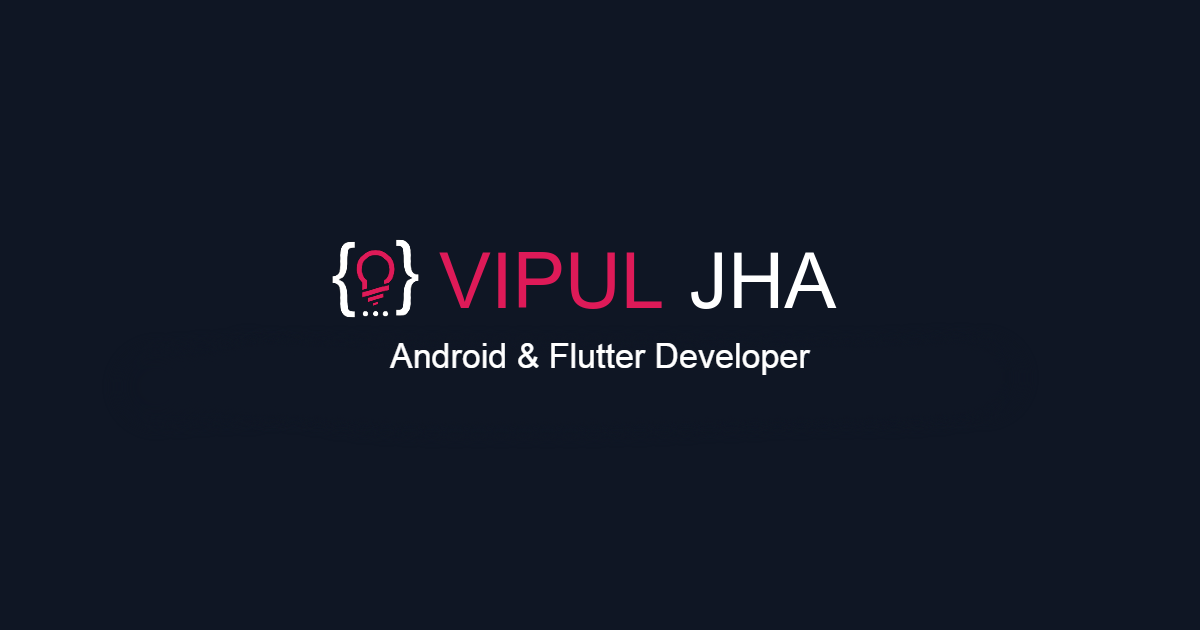
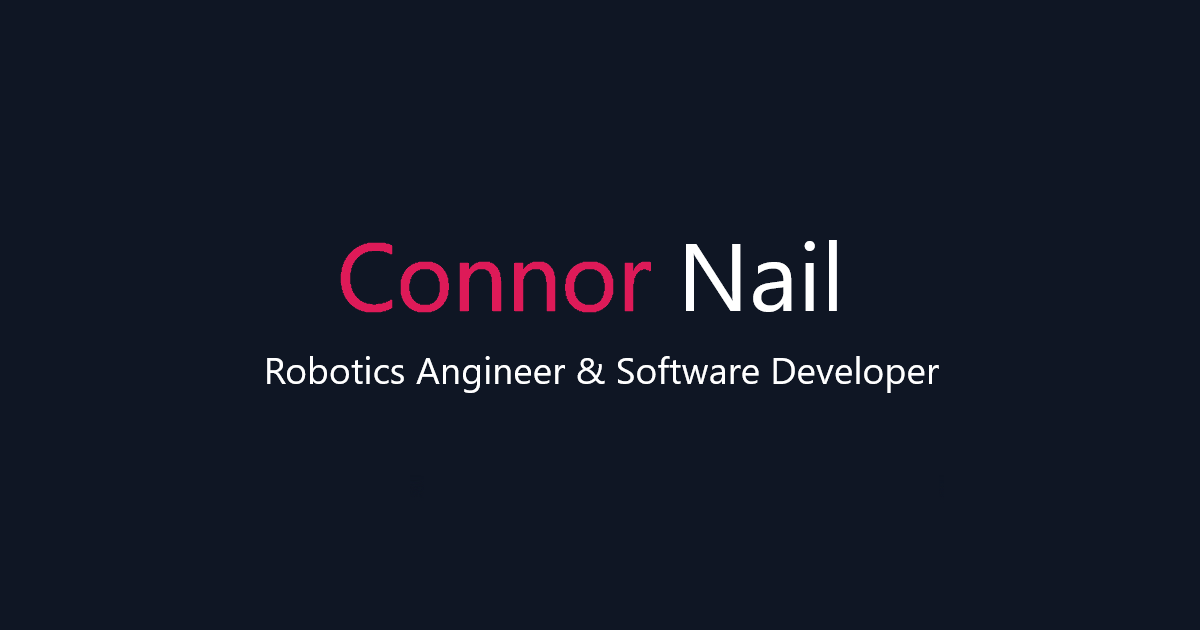
Adjusted head

Changed region(s): [[0.2775, 0.3619, 0.7092, 0.5127], [0.2158, 0.5429, 0.8017, 0.6333]]

diff --git a/src/pages/_document.js b/src/pages/_document.js
@@ -32,16 +32,16 @@ export default class MyDocument extends Document {
       <Html lang='en-GB'>
         <Head>
           <link href="https://fonts.googleapis.com/css2?family=Open+Sans:wght@300;400;500;600;700&display=swap" rel="stylesheet" />
-          <meta name="title" content="Vipul Jha - Android & Flutter Dev" />
-          <meta name="description" content="Hey there, This is Vipul Jha aka lordarcadius. I am an Android & Flutter developer who also works on ROMs, Kernels, & Scripts." />
+          <meta name="title" content="Connor Nail - Robotics Engineer & Software Developer" />
+          <meta name="description" content="My name is Connor Nail, I am a Robotics & Autonomous Systems graduate student enrolled at Arizona State University. I have a background in the CMP process of semiconductor manufacturing with experience in reliability testing, physics simulations, and web development." />
           <meta property="og:type" content="website" />
-          <meta property="og:title" content="Vipul Jha - Android & Flutter Dev" />
-          <meta property="og:description" content="Hey there, This is Vipul Jha aka lordarcadius. I am an Android & Flutter developer who also works on ROMs, Kernels, & Scripts." />
-          <meta property="og:image" content="https://www.vipuljha.com/images/banner.png" />
+          <meta property="og:title" content="Connor Nail - Robotics Engineer & Software Developer" />
+          <meta property="og:description" content="My name is Connor Nail, I am a Robotics & Autonomous Systems graduate student enrolled at Arizona State University. I have a background in the CMP process of semiconductor manufacturing with experience in reliability testing, physics simulations, and web development." />
+          <meta property="og:image" content="https://connornail.vercel.app/images/banner.png" />
           <meta property="twitter:card" content="summary_large_image" />
-          <meta property="twitter:title" content="Vipul Jha - Android & Flutter Dev" />
-          <meta property="twitter:description" content="Hey there, This is Vipul Jha aka lordarcadius. I am an Android & Flutter developer who also works on ROMs, Kernels, & Scripts." />
-          <meta property="twitter:image" content="https://www.vipuljha.com/images/banner.png" />
+          <meta property="twitter:title" content="Connor Nail - Robotics Engineer & Software Developer" />
+          <meta property="twitter:description" content="My name is Connor Nail, I am a Robotics & Autonomous Systems graduate student enrolled at Arizona State University. I have a background in the CMP process of semiconductor manufacturing with experience in reliability testing, physics simulations, and web development." />
+          <meta property="twitter:image" content="https://connornail.vercel.app/images/banner.png" />
         </Head>
         <body>
           <Main />

diff --git a/src/components/Projects/Projects.js b/src/components/Projects/Projects.js
@@ -20,7 +20,7 @@ const Projects = () => (
 
             <CardInfo className="card-info">{p.description}</CardInfo>
             <div>
-              <TitleContent>Tech Stack</TitleContent>
+              <TitleContent>Relevant Skills</TitleContent>
               <Hr />
               <TagList>
                 {p.tags.map((t, i) => {
